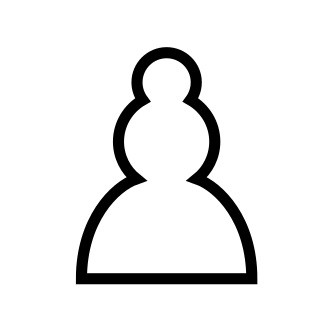
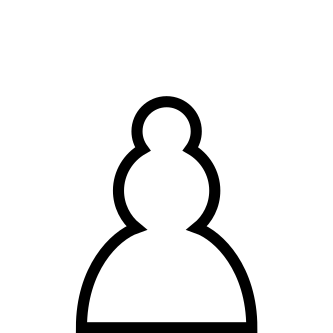
askjdalksjda

Changed region(s): [[0.2102, 0.1201, 0.7808, 1.0]]

diff --git a/static/asset/js/board.js b/static/asset/js/board.js
@@ -58,8 +58,6 @@ function PlaceSprite (troop, player, id) {
 
   const el = document.getElementById(id);
   const r = el.getBoundingClientRect();
-  console.log(el);
-  console.log(r);
 
   let img = document.createElement('img');
   // img.src = './graphics/cannibal/portrait.png';
@@ -69,7 +67,7 @@ function PlaceSprite (troop, player, id) {
 
   if (Number(player) == 1) {
     img.src += 'p2/';
-  } else {
+  } else if (Number(player) == 0){
     // Player 1, mirror the pieces
     img.style.transform = 'scaleX(-1)';
     img.src += 'p1/';
@@ -77,18 +75,21 @@ function PlaceSprite (troop, player, id) {
 
   img.src += troop + '.png';
 
-  let bottom = window.scrollY + r.bottom;
+  const scale = 0.7;
 
-  let left = (r.left + r.right)/2;
-  left -= (r.right - r.left)/2;
-
-  img.style.bottom = bottom + 'px';
-  img.style.left = left + 'px';
-
-  img.style.width = r.width + 'px';
+  let pieceWidth = r.width * scale;
+  img.style.width = pieceWidth + 'px';
   img.style.height = 'auto';
 
   img.style.zIndex = (1000 - col) + '' ;
+
+  let top = window.scrollY + r.top;
+  top -= r.height * 0.5;
+
+  let left = r.left + (r.width - pieceWidth)/2;
+
+  img.style.top = top + 'px';
+  img.style.left = left + 'px';
 
   document.body.insertBefore(img, document.getElementById('boardWrap'));
 

diff --git a/static/asset/js/game.js b/static/asset/js/game.js
@@ -132,7 +132,7 @@ class Kranch {
           sprite.classList.toggle('exhausted', true);
         }
 
-        this.tileList[index].innerHTML = ' <p class="tileinfo">'+ t.Info.Atk+ ' ' + t.HP + '</p>';
+        this.tileList[index].innerHTML = '<div class="tileinfo player' + t.Owner + '"><span class="atk">'+ t.Info.Atk+ '</span><span class="def">' + t.HP + '</span></div>';
         this.map[index].Troop = t;
         this.map[index].Index = j;
       }
@@ -145,7 +145,9 @@ class Kranch {
       let y = this.boulders[i].Y;
       let index = y * this.width + x;
 
-      this.tileList[index].innerHTML = '* <p class="tileinfo">' + this.boulders[i].HP + '</p>';
+      PlaceSprite('rock', -1, XyToRf(x, y));
+
+      this.tileList[index].innerHTML = '<div class="tileinfo">' + this.boulders[i].HP + '</div>';
       this.map[index].Type = 2;
       this.map[index].Index = i;
     }

diff --git a/static/asset/css/board.css b/static/asset/css/board.css
@@ -37,7 +37,7 @@
 
   display: flex;
   flex-flow: column;
-  justify-content: space-around;
+  justify-content: center;
   align-items: center;
   width: 50px;
 }
@@ -50,8 +50,27 @@
   background-color: rgba(255, 240, 128, 0.2);
 }
 
+.tileinfo {
+  width: 90%;
+  height: 95%;
+  display: flex;
+  flex-flow: column nowrap;
+  justify-content: flex-end;
+  align-items: center;
+  font-size: 1.5vmin;
+}
+
+.tileinfo.player0 {
+  align-items: flex-end;
+}
+
+.tileinfo.player1 {
+  align-items: flex-start;
+}
+
 .troopa {
   position: absolute;
+  pointer-events: none;
 }
 
 .troopa.exhausted {

diff --git a/static/asset/js/events.js b/static/asset/js/events.js
@@ -32,7 +32,7 @@ function TileExit () {
 
 // Hover a tile or make a move
 function ClickTile (x, y) {
-  if (document.getElementById('status').innerHTML.slice(0, 4) != 'Your') {
+  if (document.getElementById('etb').disabled) {
     return;
   }
 
